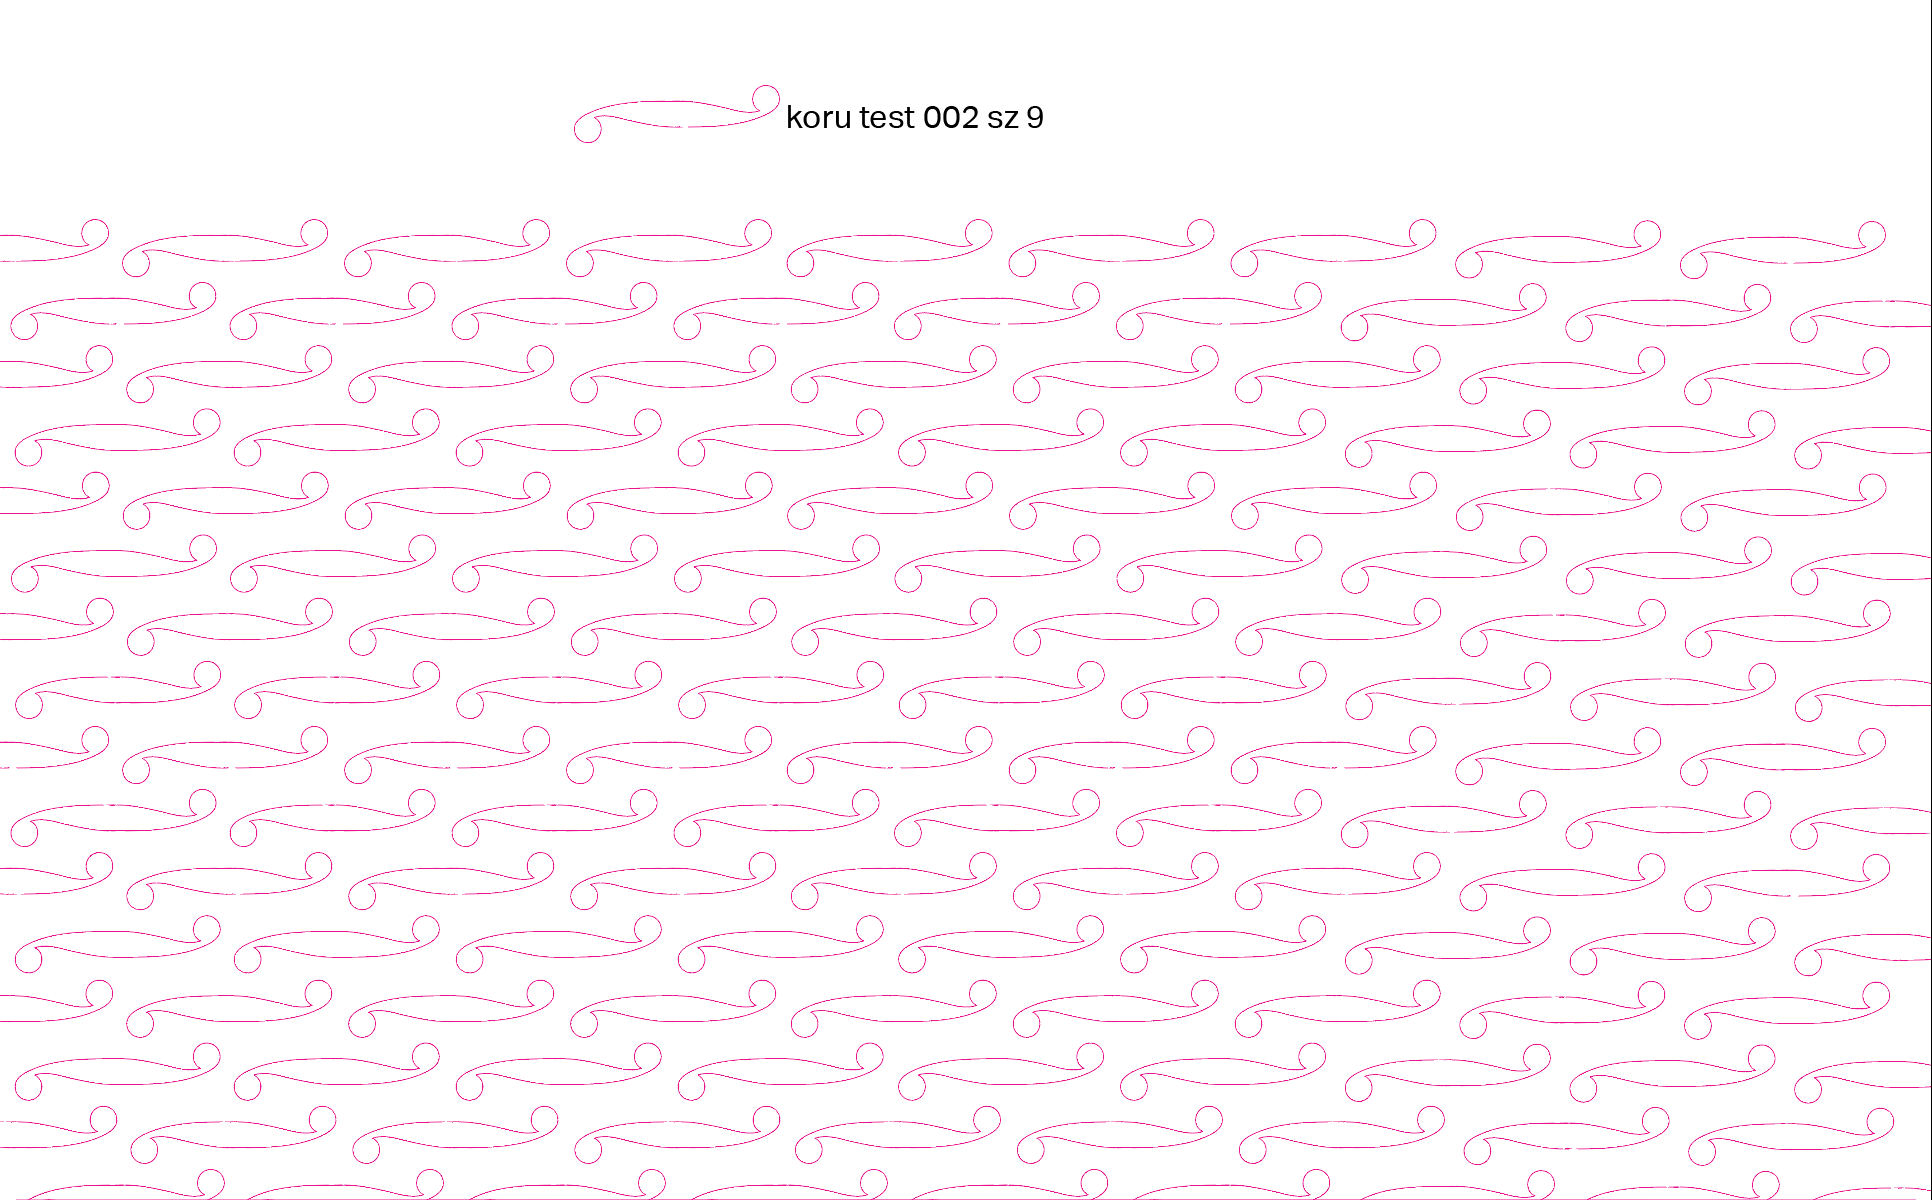
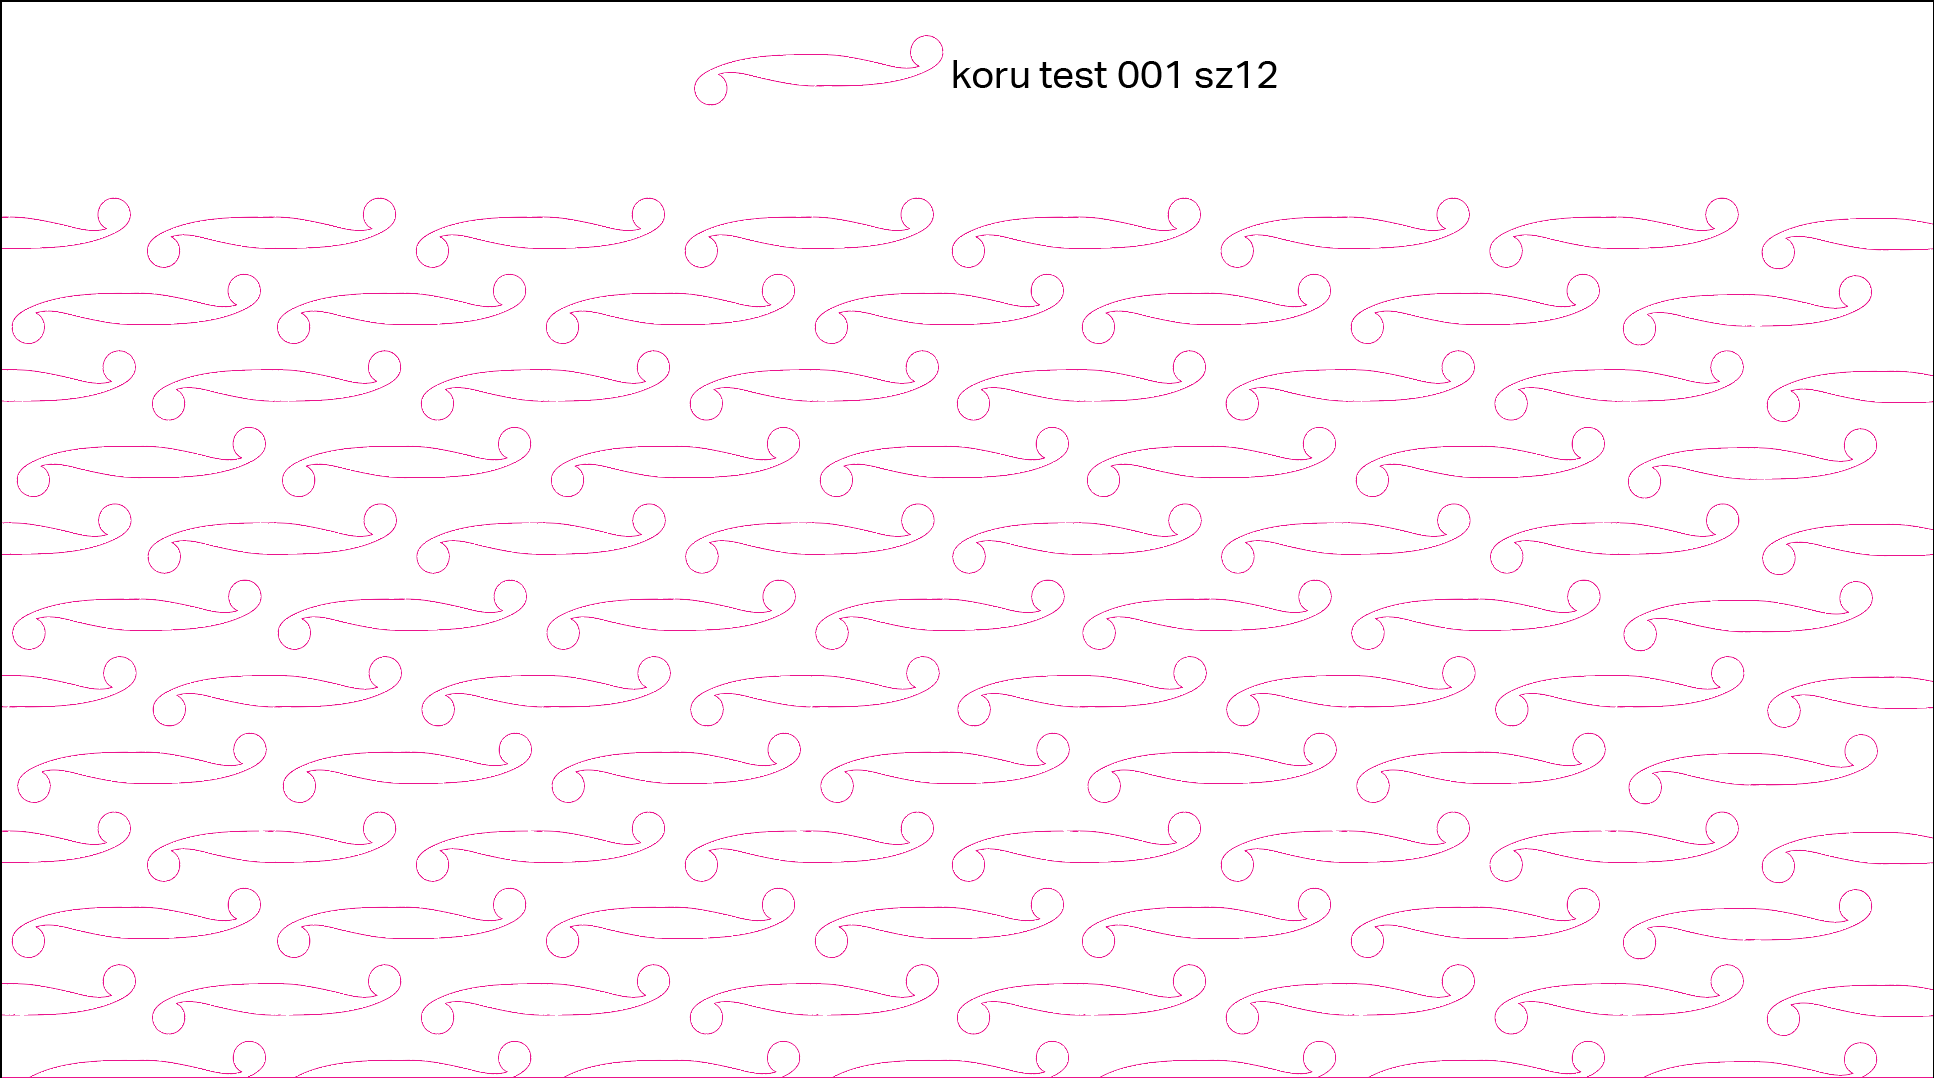
koru kerfs

diff --git a/_posts/2016-02-02-koru kerfs.md b/_posts/2016-02-02-koru kerfs.md
@@ -1,0 +1,16 @@
+---
+layout: post
+title: koru kerf patterns
+---
+
+creating some custom kerf patterns that carry local nz motifs. this one is a koru test in two sizes.
+
+
+![korusize12]({{site.baseurl}}/images/koru001.png)
+
+
+![korusize9]({{site.baseurl}}/images/koru002.png)
+
+
+
+
